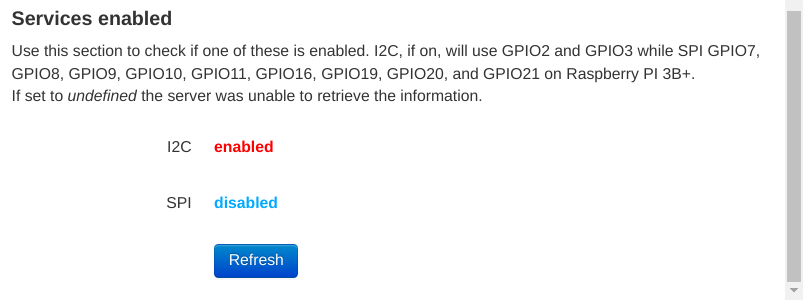
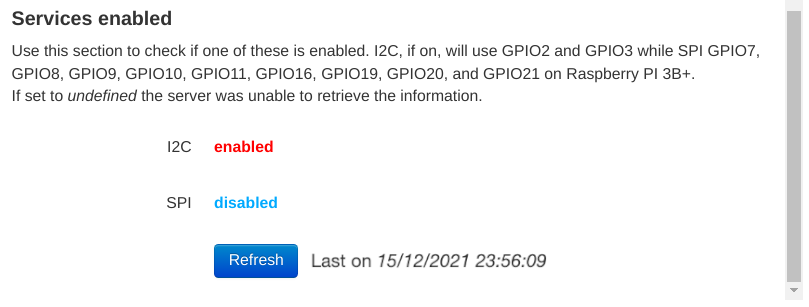
Implemented last updated for refresh

Changed region(s): [[0.3708, 0.8208, 0.6799, 0.8795]]

diff --git a/octoprint_shutdownbuttonledbuzzer/static/js/ShutdownButtonLEDBuzzer.js b/octoprint_shutdownbuttonledbuzzer/static/js/ShutdownButtonLEDBuzzer.js
@@ -9,22 +9,28 @@ $(function() {
     function ShutdownbuttonledbuzzerViewModel(parameters) {
         let self = this;
 
-        // assign the injected parameters, e.g.:
-        // self.loginStateViewModel = parameters[0];
         self.settingsViewModel = parameters[0];
 
-        // TODO: Implement your plugin's view model here.
+        self.i2c_status = ko.observable("_")
+        self.spi_status = ko.observable("-")
+        self.updated_hour = ko.observable("-")
 
-        self.i2c_status = ko.observable("loading...")
-        self.spi_status = ko.observable("loading...")
+        self.set_hour = function (){
+            let date = new Date($.now())
+            self.updated_hour(date.toLocaleDateString() + " " + date.toLocaleTimeString())
+        }
 
         self.refresh = function (){
+            self.updated_hour("Updating...")
+            self.i2c_status("Loading...")
+            self.spi_status("Loading...")
             $.get(
                 API_BASEURL + "plugin/shutdownbuttonledbuzzer",
                 function (data) {
                     let parsed = JSON.parse(data)
                     self.i2c_status(parsed.i2c_status)
                     self.spi_status(parsed.spi_status)
+                    self.set_hour()
                 }
             )
         }
@@ -34,15 +40,9 @@ $(function() {
         }
     }
 
-    /* view model class, parameters for constructor, container to bind to
-     * Please see http://docs.octoprint.org/en/master/plugins/viewmodels.html#registering-custom-viewmodels for more details
-     * and a full list of the available options.
-     */
     OCTOPRINT_VIEWMODELS.push({
         construct: ShutdownbuttonledbuzzerViewModel,
-        // ViewModels your plugin depends on, e.g. loginStateViewModel, settingsViewModel, ...
-        dependencies: [ /* "loginStateViewModel", "settingsViewModel" */ "settingsViewModel"],
-        // Elements to bind to, e.g. #settings_plugin_ShutdownButtonLEDBuzzer, #tab_plugin_ShutdownButtonLEDBuzzer, ...
-        elements: [ "#settings_plugin_shutdownbuttonledbuzzer"  ]
+        dependencies: [ "settingsViewModel" ],
+        elements: [ "#settings_plugin_shutdownbuttonledbuzzer" ]
     });
 });

diff --git a/octoprint_shutdownbuttonledbuzzer/static/css/ShutdownButtonLEDBuzzer.css b/octoprint_shutdownbuttonledbuzzer/static/css/ShutdownButtonLEDBuzzer.css
@@ -21,3 +21,12 @@
     color: #0F0;
     font-weight: bold;
 }
+
+.update-label{
+    display: inline;
+    padding-left: 10px;
+}
+
+.update-label span {
+    font-style: italic;
+}
